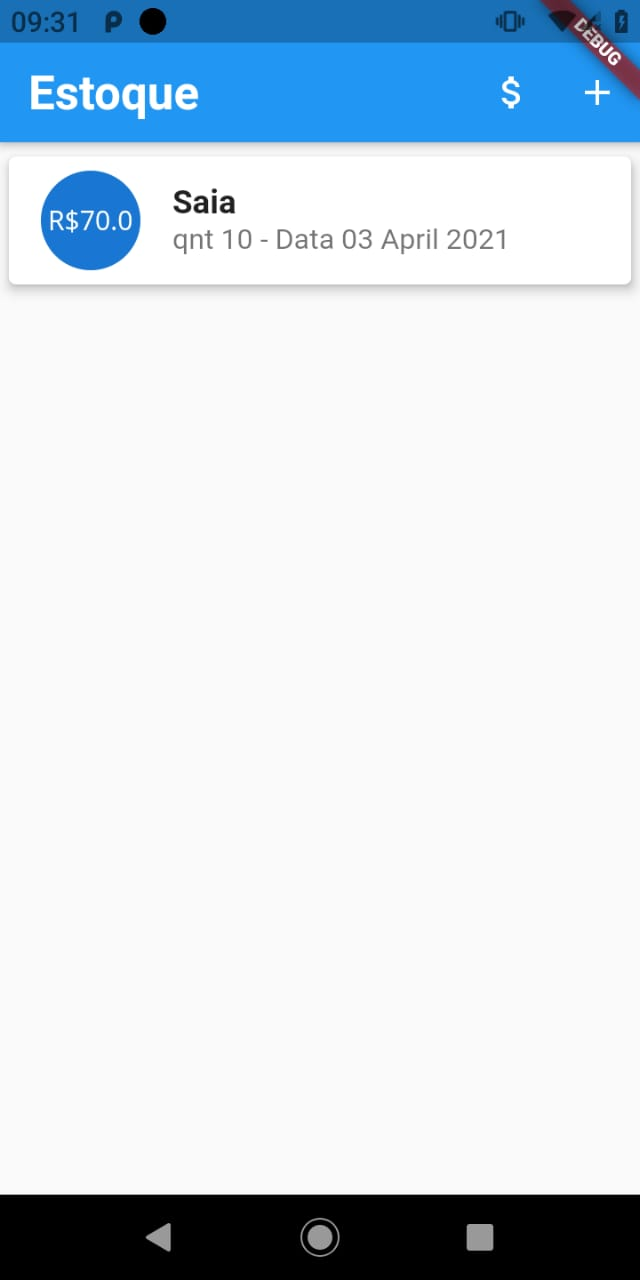
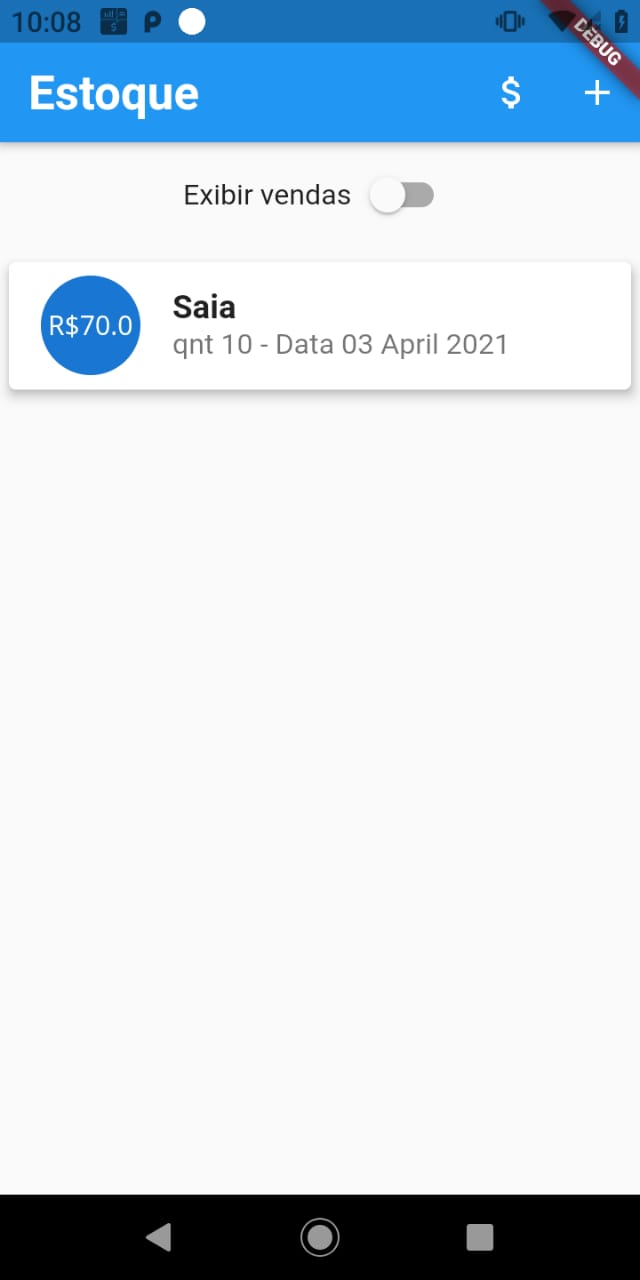
feat: add list sale

diff --git a/lib/main.dart b/lib/main.dart
@@ -5,6 +5,7 @@ import 'package:flutter/material.dart';
 import 'package:inventory/components/product_form.dart';
 import 'package:inventory/components/product_list.dart';
 import 'package:inventory/components/sale_form.dart';
+import 'package:inventory/components/sale_list.dart';
 import 'package:inventory/model/product.dart';
 import 'package:inventory/model/sale.dart';
 
@@ -45,6 +46,8 @@ class MyHomePage extends StatefulWidget {
 
 class _MyHomePageState extends State<MyHomePage> {
   final List<Product> _products = [];
+  final List<Sale> _sales = [];
+  bool _showListSale = false;
 
   _addProduct(String product, int amount, double purchaseValue,
       double saleValue, double profit, DateTime date) {
@@ -65,17 +68,17 @@ class _MyHomePageState extends State<MyHomePage> {
     Navigator.of(context).pop();
   }
 
-  _addSale(String product, double price, double amount, DateTime date) {
+  _addSale(String product, double price, int amount, DateTime date) {
     final newSale = Sale(
       product: product,
       price: price,
       amount: amount,
       date: date,
     );
-    /*
+
     setState(() {
-      _transactions.add(newSale);
-    });*/
+      _sales.add(newSale);
+    });
 
     Navigator.of(context).pop();
   }
@@ -136,8 +139,39 @@ class _MyHomePageState extends State<MyHomePage> {
     final bodyPage = Center(
       child: Container(
         height: availableHeight * 1,
-        child: ProductList(
-          products: _products,
+        child: Column(
+          crossAxisAlignment: CrossAxisAlignment.stretch,
+          children: [
+            Container(
+              height: availableHeight * .1,
+              child: Row(
+                mainAxisAlignment: MainAxisAlignment.center,
+                children: [
+                  Text('Exibir vendas'),
+                  Switch(
+                      value: _showListSale,
+                      onChanged: (value) {
+                        setState(() {
+                          _showListSale = !_showListSale;
+                        });
+                      }),
+                ],
+              ),
+            ),
+            !_showListSale
+                ? Container(
+                    height: availableHeight * .9,
+                    child: ProductList(
+                      products: _products,
+                    ),
+                  )
+                : Container(
+                    height: availableHeight * .9,
+                    child: SaleList(
+                      sales: _sales,
+                    ),
+                  ),
+          ],
         ),
       ),
     );

diff --git a/lib/components/sale_list.dart b/lib/components/sale_list.dart
@@ -1,0 +1,56 @@
+import 'package:flutter/material.dart';
+import 'package:intl/intl.dart';
+import 'package:inventory/model/sale.dart';
+
+class SaleList extends StatelessWidget {
+  final List<Sale> sales;
+
+  SaleList({this.sales});
+
+  @override
+  Widget build(BuildContext context) {
+    return sales.isEmpty
+        ? LayoutBuilder(
+            builder: (ctx, constraints) {
+              return Column(
+                children: <Widget>[
+                  SizedBox(
+                    height: 20,
+                  ),
+                  Text('Nenhuma venda cadastrada'),
+                ],
+              );
+            },
+          )
+        : ListView.builder(
+            itemCount: sales.length,
+            itemBuilder: (ctx, index) {
+              final sl = sales[index];
+              return Card(
+                elevation: 5,
+                margin: EdgeInsets.symmetric(
+                  vertical: 8,
+                  horizontal: 5,
+                ),
+                child: ListTile(
+                  leading: CircleAvatar(
+                    radius: 30,
+                    child: Padding(
+                      padding: const EdgeInsets.all(6),
+                      child: FittedBox(
+                        child: Text('R\$${sl.price}'),
+                      ),
+                    ),
+                  ),
+                  title: Text(
+                    '${sl.product}',
+                    style: Theme.of(context).textTheme.headline6,
+                  ),
+                  subtitle: Text(
+                      'qnt ${sl.amount} - Data ${DateFormat('dd MMMM y').format(sl.date)}'),
+                ),
+              );
+            },
+          );
+  }
+}

diff --git a/lib/components/sale_form.dart b/lib/components/sale_form.dart
@@ -4,7 +4,7 @@ import 'package:inventory/adaptatives/adaptative_date_picker.dart';
 import 'package:inventory/adaptatives/adaptative_text_field.dart';
 
 class SaleForm extends StatefulWidget {
-  final void Function(String, double, double, DateTime) onSubmit;
+  final void Function(String, double, int, DateTime) onSubmit;
 
   SaleForm(this.onSubmit);
 
@@ -20,14 +20,14 @@ class _SaleFormState extends State<SaleForm> {
 
   _submitForm() {
     final product = _productController.text;
-    final amount = double.tryParse(_amountController.text) ?? 0.0;
+    final amount = int.tryParse(_amountController.text) ?? 0.0;
     final price = double.tryParse(_priceController.text) ?? 0.0;
 
     if (product.isEmpty || amount <= 0 || price <= 0 || _selectedDate == null) {
       return;
     }
 
-    widget.onSubmit(product, amount, price, _selectedDate);
+    widget.onSubmit(product, price, amount, _selectedDate);
   }
 
   @override
@@ -46,11 +46,13 @@ class _SaleFormState extends State<SaleForm> {
               ),
               AdaptativeTextField(
                 controller: _priceController,
+                keyboardType: TextInputType.numberWithOptions(decimal: true),
                 onSubmitted: (value) => _submitForm(),
                 label: 'Preço',
               ),
               AdaptativeTextField(
                 controller: _amountController,
+                keyboardType: TextInputType.numberWithOptions(decimal: false),
                 onSubmitted: (value) => _submitForm(),
                 label: 'Quantidade',
               ),

diff --git a/lib/model/sale.dart b/lib/model/sale.dart
@@ -3,7 +3,7 @@ import 'package:flutter/foundation.dart';
 class Sale {
   final String product;
   final double price;
-  final double amount;
+  final int amount;
   final DateTime date;
 
   Sale({

diff --git a/README.md b/README.md
@@ -15,11 +15,14 @@ For help getting started with Flutter, view our
 [online documentation](https://flutter.dev/docs), which offers tutorials,
 samples, guidance on mobile development, and a full API reference.
 
-## List sale
+## List product
 ![](./images_app/list_product.jpeg)
-
-## Form sale
-![](./images_app/form_sale.jpeg)
 
 ## Form product
 ![](./images_app/form_product.jpeg)
+
+## List Sale
+![](./images_app/list_sale.jpeg)
+
+## Form sale
+![](./images_app/form_sale.jpeg)
